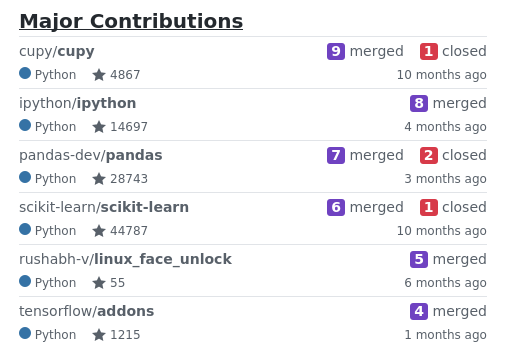
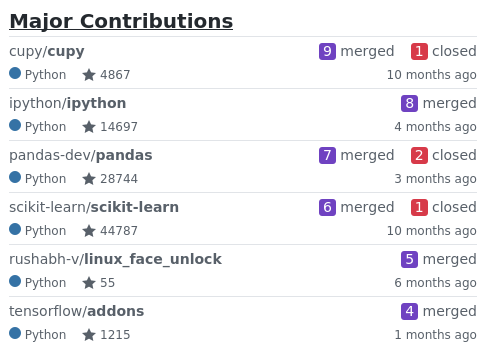
Update resources

diff --git a/contributions.html b/contributions.html
@@ -164,7 +164,7 @@ fieldset{padding:0;margin:0;border:0}label{font-weight:600}.form-control,.form-s
                         <path fill-rule="evenodd"
                             d="M14 6l-4.9-.64L7 1 4.9 5.36 0 6l3.6 3.26L2.67 14 7 11.67 11.33 14l-.93-4.74L14 6z">
                         </path>
-                    </svg>&nbsp;28743</div>
+                    </svg>&nbsp;28744</div>
             </div>
             <div class="f6 mt-1">3 months ago</div>
         </div>
@@ -280,7 +280,7 @@ fieldset{padding:0;margin:0;border:0}label{font-weight:600}.form-control,.form-s
                         </path>
                     </svg>&nbsp;2699</div>
             </div>
-            <div class="f6 mt-1">2 days ago</div>
+            <div class="f6 mt-1">3 days ago</div>
         </div>
     </div>
         <div class="border-top py-1">
@@ -311,7 +311,7 @@ fieldset{padding:0;margin:0;border:0}label{font-weight:600}.form-control,.form-s
                         <path fill-rule="evenodd"
                             d="M14 6l-4.9-.64L7 1 4.9 5.36 0 6l3.6 3.26L2.67 14 7 11.67 11.33 14l-.93-4.74L14 6z">
                         </path>
-                    </svg>&nbsp;153801</div>
+                    </svg>&nbsp;153802</div>
             </div>
             <div class="f6 mt-1">30 days ago</div>
         </div>
@@ -634,7 +634,7 @@ fieldset{padding:0;margin:0;border:0}label{font-weight:600}.form-control,.form-s
                         <path fill-rule="evenodd"
                             d="M14 6l-4.9-.64L7 1 4.9 5.36 0 6l3.6 3.26L2.67 14 7 11.67 11.33 14l-.93-4.74L14 6z">
                         </path>
-                    </svg>&nbsp;16264</div>
+                    </svg>&nbsp;16266</div>
             </div>
             <div class="f6 mt-1">7 months ago</div>
         </div>
@@ -932,7 +932,7 @@ fieldset{padding:0;margin:0;border:0}label{font-weight:600}.form-control,.form-s
                         <path fill-rule="evenodd"
                             d="M14 6l-4.9-.64L7 1 4.9 5.36 0 6l3.6 3.26L2.67 14 7 11.67 11.33 14l-.93-4.74L14 6z">
                         </path>
-                    </svg>&nbsp;38819</div>
+                    </svg>&nbsp;38820</div>
             </div>
             <div class="f6 mt-1">8 months ago</div>
         </div>
@@ -1033,7 +1033,7 @@ fieldset{padding:0;margin:0;border:0}label{font-weight:600}.form-control,.form-s
                         <path fill-rule="evenodd"
                             d="M14 6l-4.9-.64L7 1 4.9 5.36 0 6l3.6 3.26L2.67 14 7 11.67 11.33 14l-.93-4.74L14 6z">
                         </path>
-                    </svg>&nbsp;153801</div>
+                    </svg>&nbsp;153802</div>
             </div>
             <div class="f6 mt-1">11 months ago</div>
         </div>
@@ -1058,7 +1058,7 @@ fieldset{padding:0;margin:0;border:0}label{font-weight:600}.form-control,.form-s
                         <path fill-rule="evenodd"
                             d="M14 6l-4.9-.64L7 1 4.9 5.36 0 6l3.6 3.26L2.67 14 7 11.67 11.33 14l-.93-4.74L14 6z">
                         </path>
-                    </svg>&nbsp;28743</div>
+                    </svg>&nbsp;28744</div>
             </div>
             <div class="f6 mt-1">1 years ago</div>
         </div>
